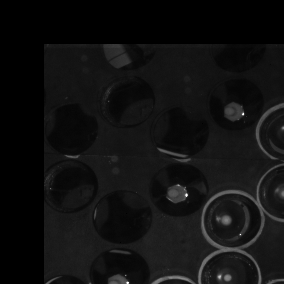
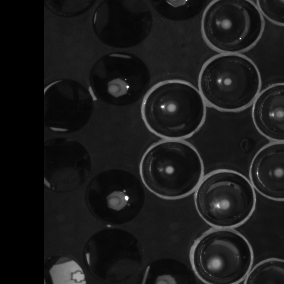
moved the tile image

diff --git a/artifice.py b/artifice.py
@@ -347,8 +347,8 @@ def cmd_proxy(art):
   with tf.Session() as sess:
     while True:
       images, fields = sess.run(get_next)
-      img.save('docs/gyros_tile.png', images[0])
-      img.save('docs/gyros_tile_proxy.png', fields[0])
+      img.save('docs/gyros_tile.png', images[5])
+      img.save('docs/gyros_tile_proxy.png', fields[5])
       break
   
 def cmd_augment(art):
@@ -356,7 +356,6 @@ def cmd_augment(art):
   If `art.show`, then show the new examples, otherwise, save the augmented
   train_set.
   """
-  _ = art.load_model()
   annotated_set = art.load_annotated()
   get_next = annotated_set.training_input.make_one_shot_iterator().get_next()
   with tf.Session() as sess:
